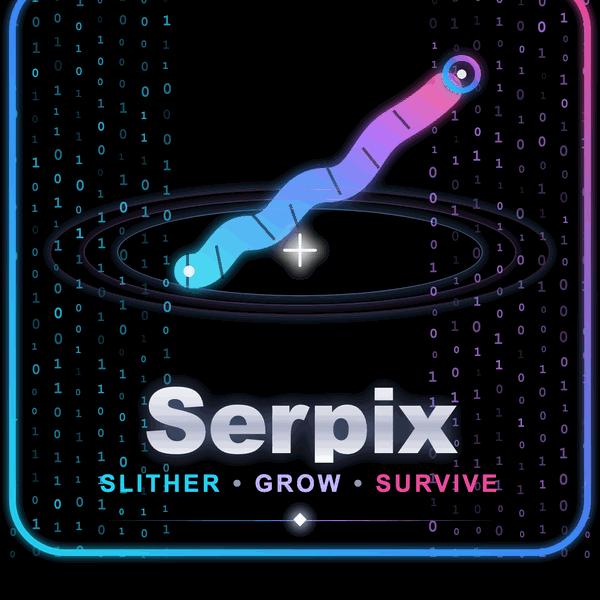
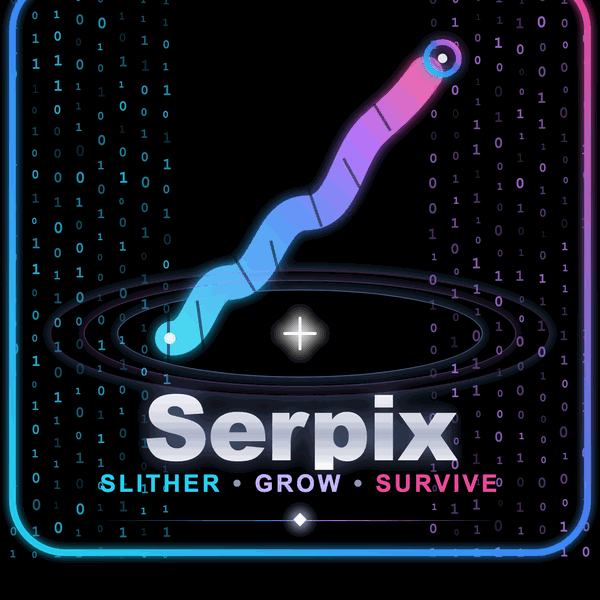
update

diff --git a/sw.js b/sw.js
@@ -12,7 +12,7 @@
    ============================================================ */
 'use strict';
 
-var CACHE = 'dailycode-portal-v13';
+var CACHE = 'dailycode-portal-v14';
 var PREFIX = 'dailycode-portal-';
 var LEGACY = ['dailycode-cache-v2'];
 